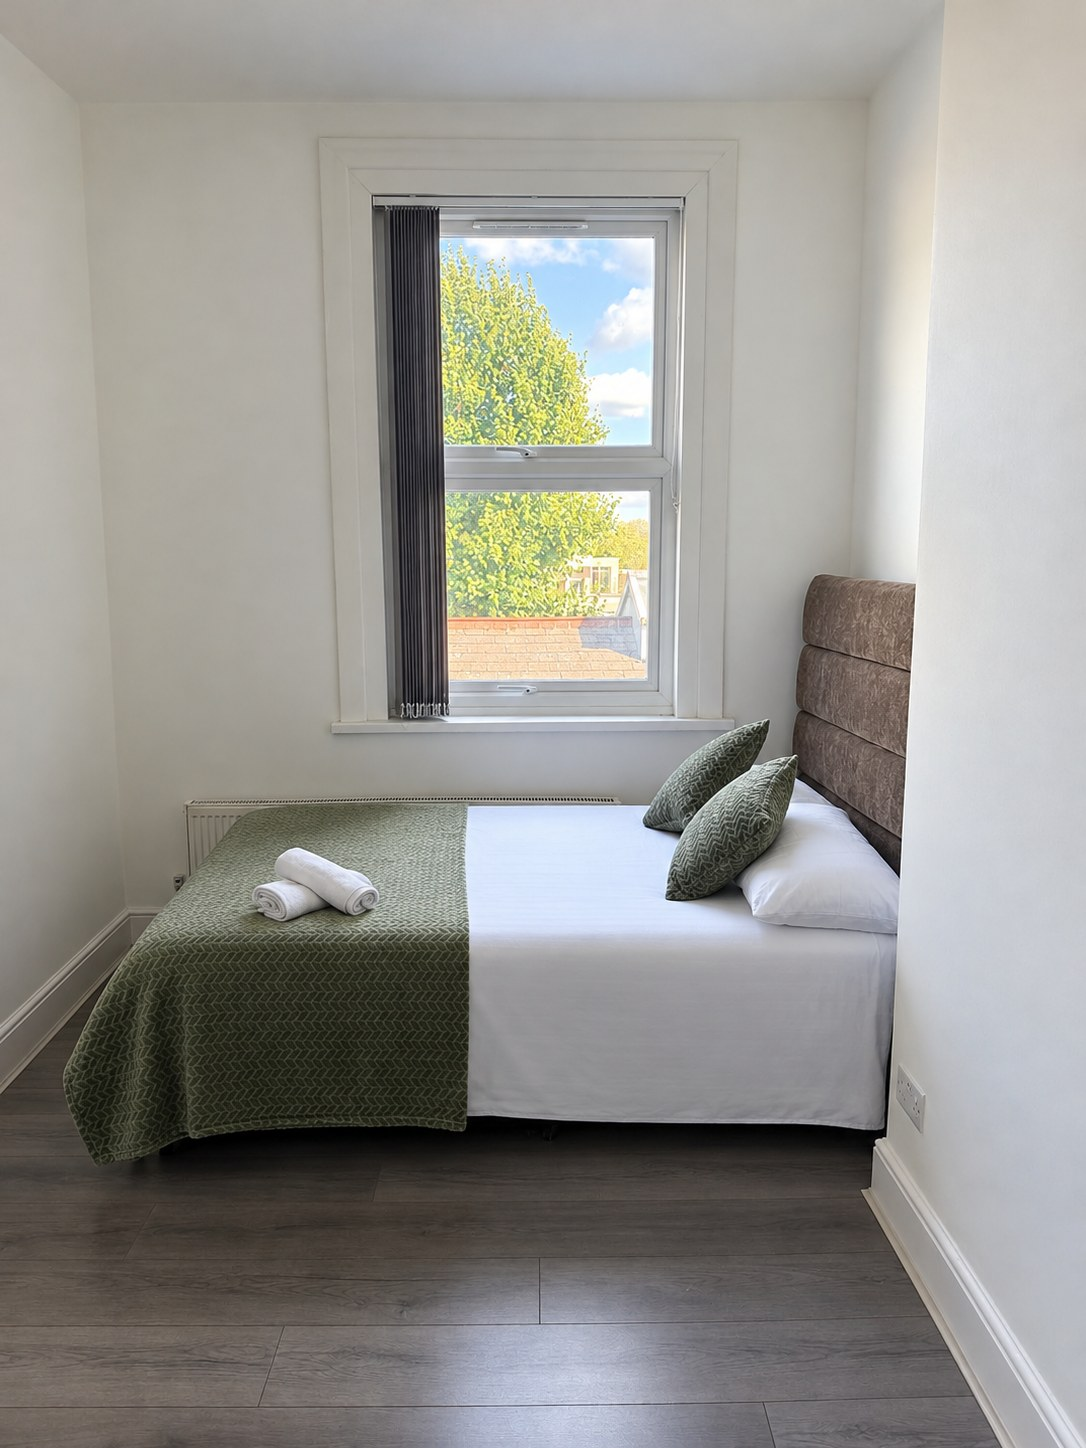
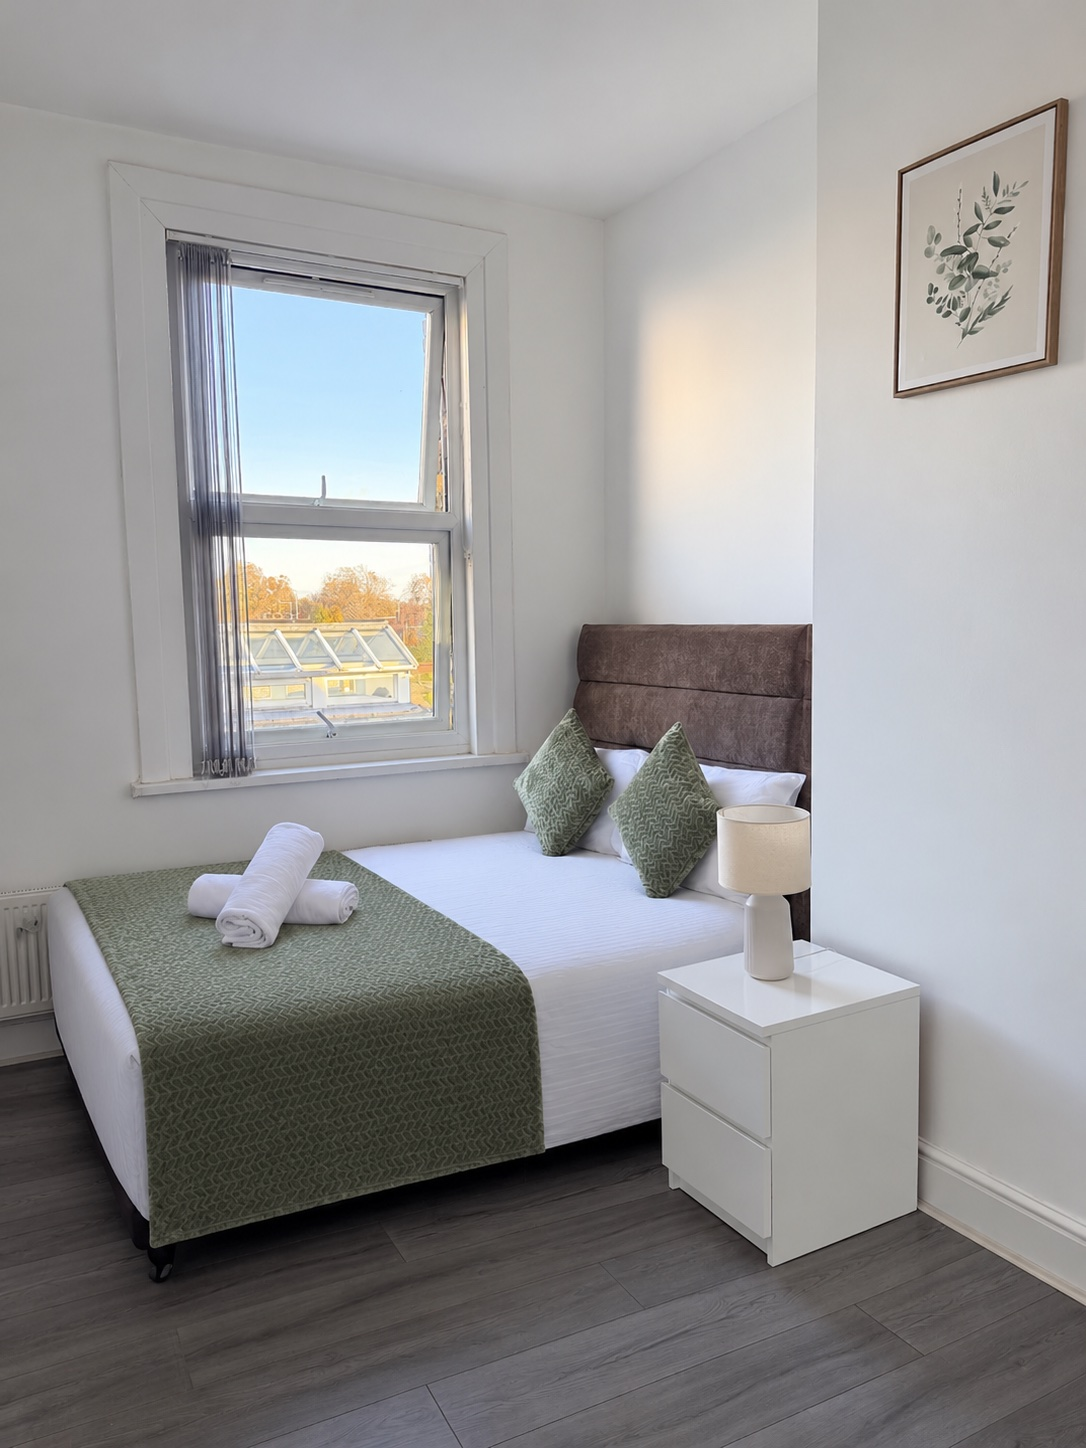
New bedroom photos with updated descriptions
Bedrooms 1 to 3 reshot: new bedroom-1-window and bedroom-3-alt, the
three bedroom-2 extras removed, alt text rewritten to match.

diff --git a/src/data/properties.ts b/src/data/properties.ts
@@ -149,15 +149,14 @@ export const properties: Property[] = [
       { file: 'dining.jpg', room: 'Kitchen and dining', alt: 'Dining table laid for six beside the living room window' },
       { file: 'kitchen.jpg', room: 'Kitchen and dining', alt: 'Kitchen with a gas cooker, fridge-freezer and worktop space' },
       { file: 'kitchen-detail.jpg', room: 'Kitchen and dining', alt: 'Kitchen worktop with kettle, toaster and gas hob' },
-      { file: 'bedroom-1.jpg', room: 'Bedroom 1', alt: 'Bedroom 1 with a double bed, desk chair and two large windows' },
-      { file: 'bedroom-1-alt.jpg', room: 'Bedroom 1', alt: 'Bedroom 1 from the window side, with the double bed and storage bench' },
-      { file: 'bedroom-2.jpg', room: 'Bedroom 2', alt: 'Bedroom 2 with a double bed under the window' },
-      { file: 'bedroom-2-alt.jpg', room: 'Bedroom 2', alt: 'Bedroom 2 looking from the bed towards the door and wardrobe' },
-      { file: 'bedroom-2-wide.jpg', room: 'Bedroom 2', alt: 'Wide view of bedroom 2 with the double bed and ceiling fan' },
-      { file: 'bedroom-2-wide-2.jpg', room: 'Bedroom 2', alt: 'Bedroom 2 from the corner, showing the bed and the door' },
-      { file: 'bedroom-2-detail.jpg', room: 'Bedroom 2', alt: 'Fresh towels on the bed in bedroom 2, beside the sliding wardrobe' },
-      { file: 'bedroom-3.jpg', room: 'Bedroom 3', alt: 'Bedroom 3 with a double bed and a window over the street' },
-      { file: 'bedroom-3-detail.jpg', room: 'Bedroom 3', alt: 'Bedroom 3 headboard with cushions and rolled towels' },
+      { file: 'bedroom-1.jpg', room: 'Bedroom 1', alt: 'Bedroom 1 with a double bed, a rug and two sash windows over the street' },
+      { file: 'bedroom-1-alt.jpg', room: 'Bedroom 1', alt: 'Double bed in bedroom 1, with a desk and chair to one side and shelves to the other' },
+      { file: 'bedroom-1-window.jpg', room: 'Bedroom 1', alt: 'Afternoon sun through the sash window in bedroom 1, beside a full-length mirror' },
+      { file: 'bedroom-2.jpg', room: 'Bedroom 2', alt: 'Bedroom 2 with a double bed under the window and a sliding wardrobe' },
+      { file: 'bedroom-2-alt.jpg', room: 'Bedroom 2', alt: 'Bedroom 2 looking from the bed towards the door and round mirror' },
+      { file: 'bedroom-3.jpg', room: 'Bedroom 3', alt: 'Bedroom 3 with a double bed, bedside table and lamp by the window' },
+      { file: 'bedroom-3-alt.jpg', room: 'Bedroom 3', alt: 'Bedroom 3 from the bed, with a wardrobe in the corner and the door' },
+      { file: 'bedroom-3-detail.jpg', room: 'Bedroom 3', alt: 'Bedside lamp and framed prints in bedroom 3' },
       { file: 'bathroom.jpg', room: 'Bathroom', alt: 'Bathroom with a walk-in shower, basin and toilet' },
       { file: 'bathroom-2.jpg', room: 'Bathroom', alt: 'Walk-in shower with a glass screen next to the basin' },
       { file: 'bathroom-detail.jpg', room: 'Bathroom', alt: 'Framed street map on the tiled bathroom wall' },
